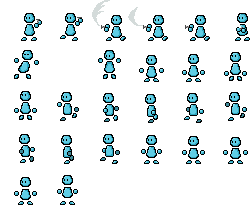
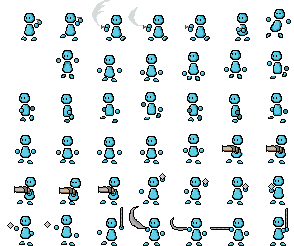
BastonImplementado

diff --git a/src/scenes/GameScene.js b/src/scenes/GameScene.js
@@ -21,6 +21,8 @@ export class GameScene extends Phaser.Scene {
         this.load.image('tilemap', 'assets/images/tilemap_packed.png');
         this.load.image('olas', 'assets/images/olas_placeholder.png');
         this.load.image('katana', 'assets/images/katana.png')
+        this.load.image('baston', 'assets/images/baston.png')
+
 
         this.load.spritesheet('player', 'assets/images/characters.png', {
             frameWidth: 42,
@@ -35,7 +37,7 @@ export class GameScene extends Phaser.Scene {
     }
 
     create() {
-
+   
                
         //Crear plataformas solidas
         this.platforms = this.physics.add.staticGroup();
@@ -128,6 +130,14 @@ export class GameScene extends Phaser.Scene {
             }
         )
 
+        this.anims.create(
+            {
+            key: 'baston',
+            frames: this.anims.generateFrameNumbers('player', { start: 37, end: 41 }),
+            frameRate: 24 
+            }
+        )
+
         // Setup players
         this.setUpPlayers();
 
@@ -149,11 +159,11 @@ export class GameScene extends Phaser.Scene {
         const weaponTest = new Weapon(this, 500, 300);
 
         this.physics.add.overlap(player1.sprite, weaponTest.sprite, () => {
-            player1.weapon = 'katana';
+            player1.weapon = weaponTest.name;
             weaponTest.sprite.destroy();
         })
         this.physics.add.overlap(player2.sprite, weaponTest.sprite, () => {
-            player1.weapon = 'katana';
+            player1.weapon = weaponTest.name;
             weaponTest.sprite.destroy();
         })
 
@@ -326,14 +336,41 @@ export class GameScene extends Phaser.Scene {
     //Ataque de un jugador
     playerAttack(player)
     {
-        switch(player.weapon){ 
+        let offsetX = player.sprite.flipX ? 12 : -12; //El sprite del jugador se queda a un lado u otro
+        let hitbox = this.add.rectangle(player.sprite.x + offsetX,player.sprite.y,20,32); //Hitbox ataques cuerpo a cuerpo
+        
+        switch(player.weapon){
+             
             case 'katana':
                 player.isAttacking = true;
                 player.sprite.anims.play('katana', true);
 
-                let offsetX = player.sprite.flipX ? 12 : -12; //El sprite del jugador se queda a un lado u otro
+                
                 //Crear la hitbox
-                let hitbox = this.add.rectangle(player.sprite.x + offsetX,player.sprite.y,20,32);
+                
+
+                this.physics.add.existing(hitbox, false);
+                hitbox.body.setAllowGravity(false);
+
+                this.physics.add.overlap(player.enemy.sprite, hitbox, () => {
+                    this.loseRound(player.enemy);
+                })
+                
+                player.hitbox = hitbox;
+
+                player.sprite.once('animationcomplete', () => {
+                    player.isAttacking = false;
+                    if (player.hitbox)
+                    {
+                        player.hitbox.destroy();
+                        player.hitbox = null;
+                        player.weapon = null;
+                    }
+                });
+                break;
+            case 'baston':
+                player.isAttacking = true;
+                player.sprite.anims.play('baston', true);
 
                 this.physics.add.existing(hitbox, false);
                 hitbox.body.setAllowGravity(false);

diff --git a/src/entities/Weapon.js b/src/entities/Weapon.js
@@ -11,8 +11,8 @@ export class Weapon {
                 this.name = 'katana';
                 break;
             default:
-                this.sprite = scene.physics.add.sprite(x, y, 'katana');
-                this.name = 'katana';
+                this.sprite = scene.physics.add.sprite(x, y, 'baston');
+                this.name = 'baston';
                 break;
         }
 
